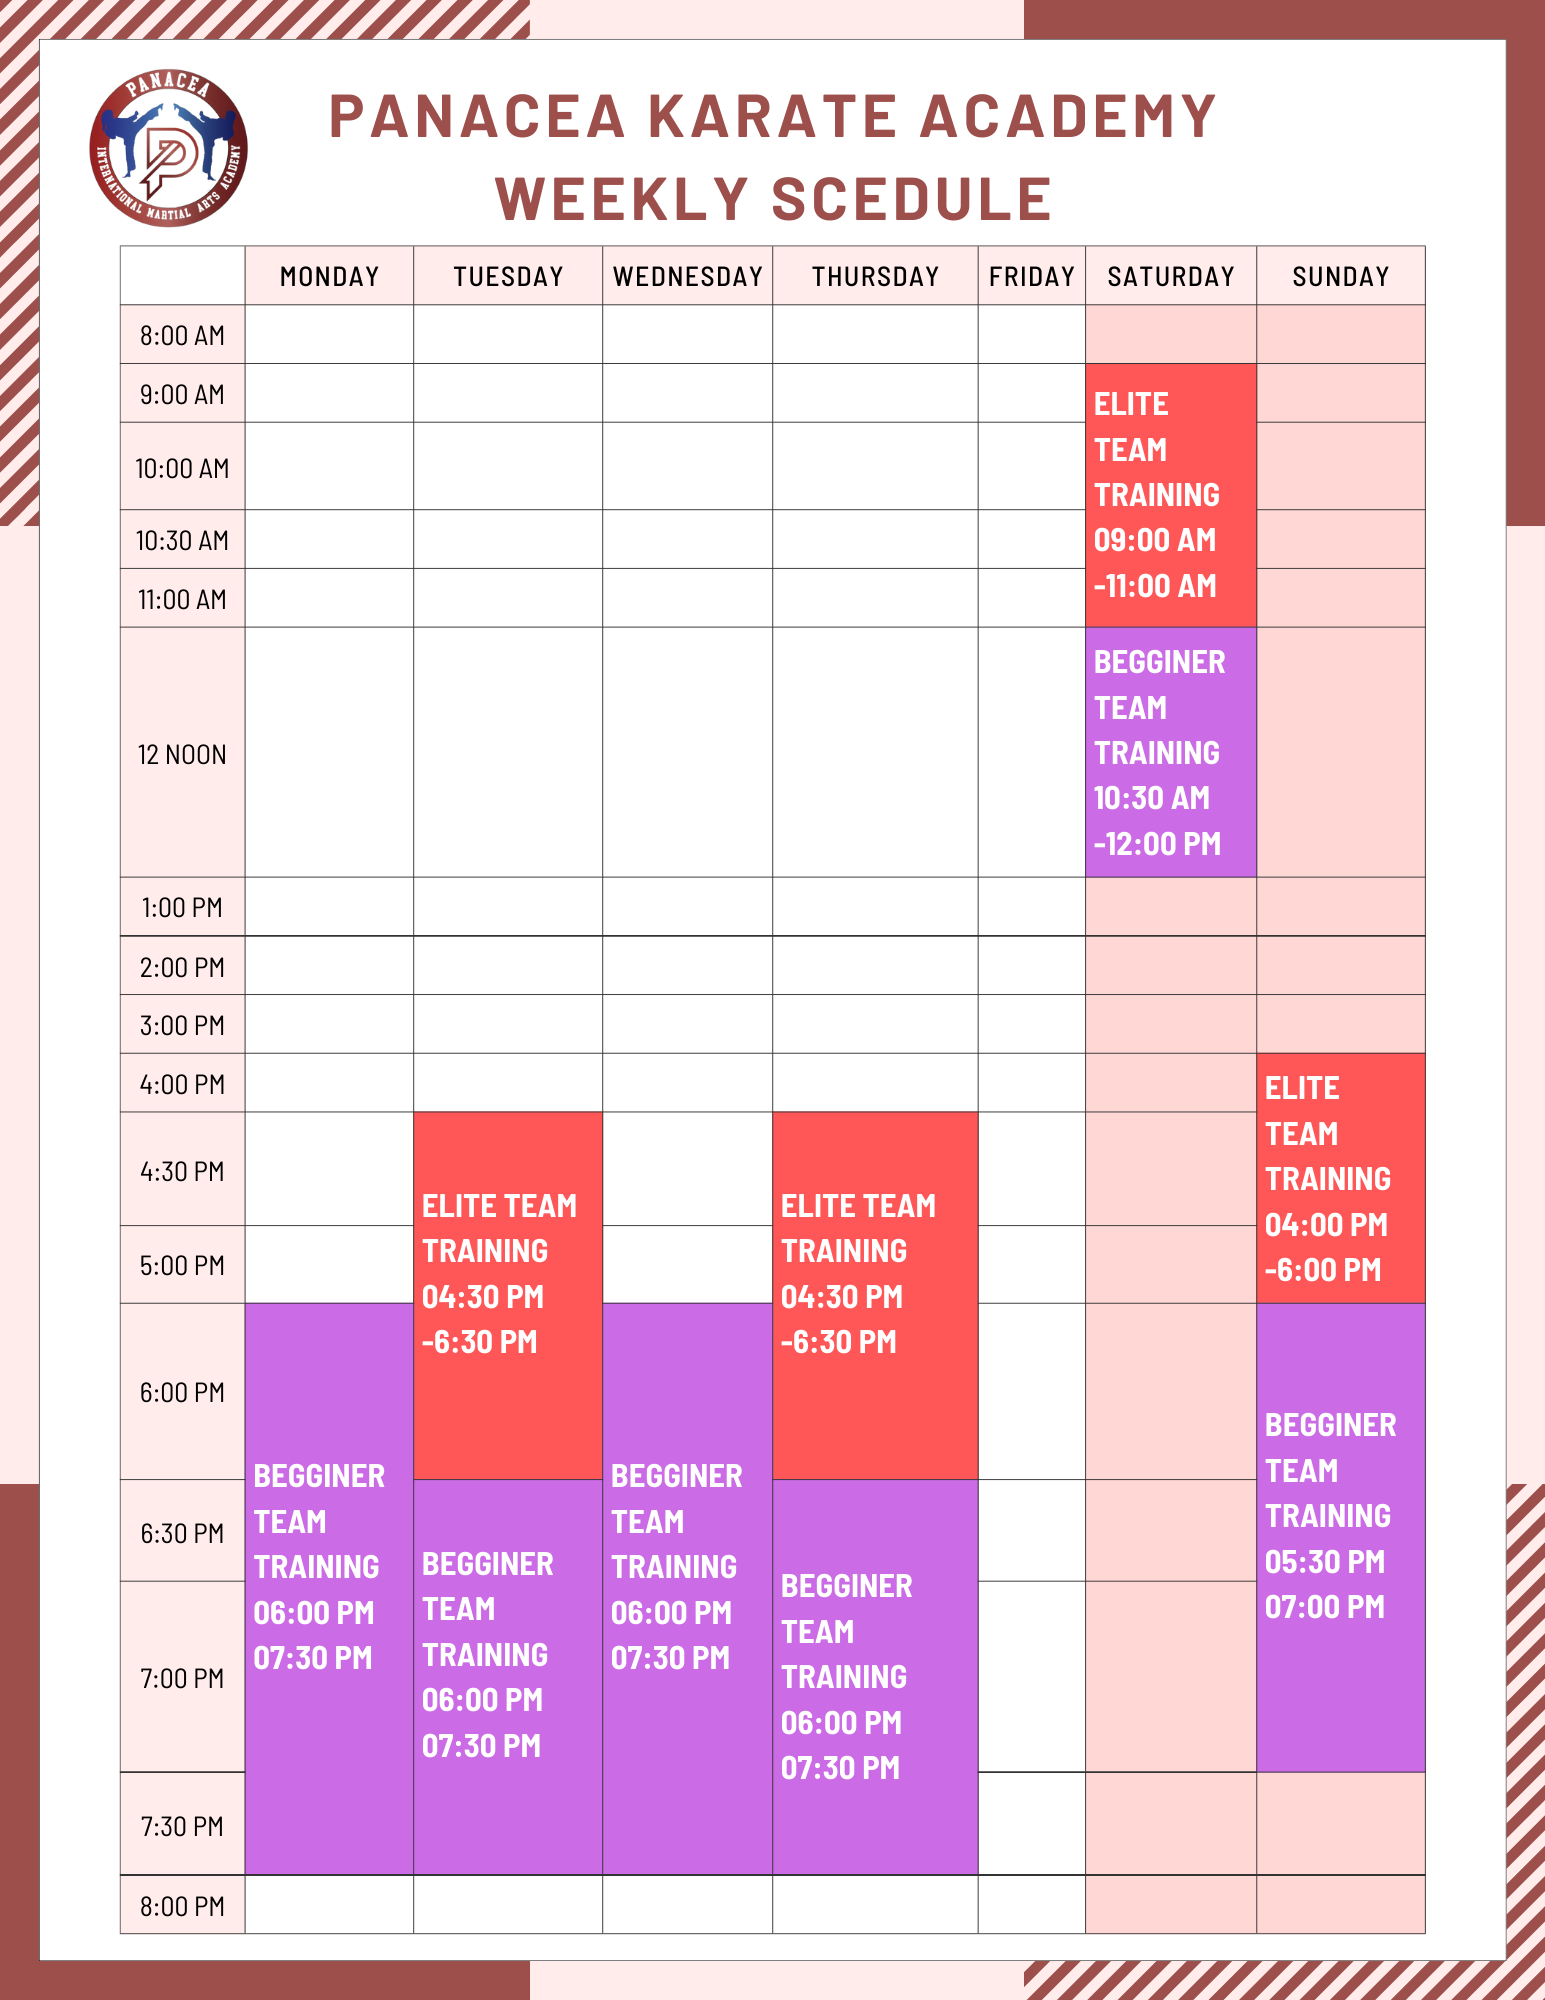
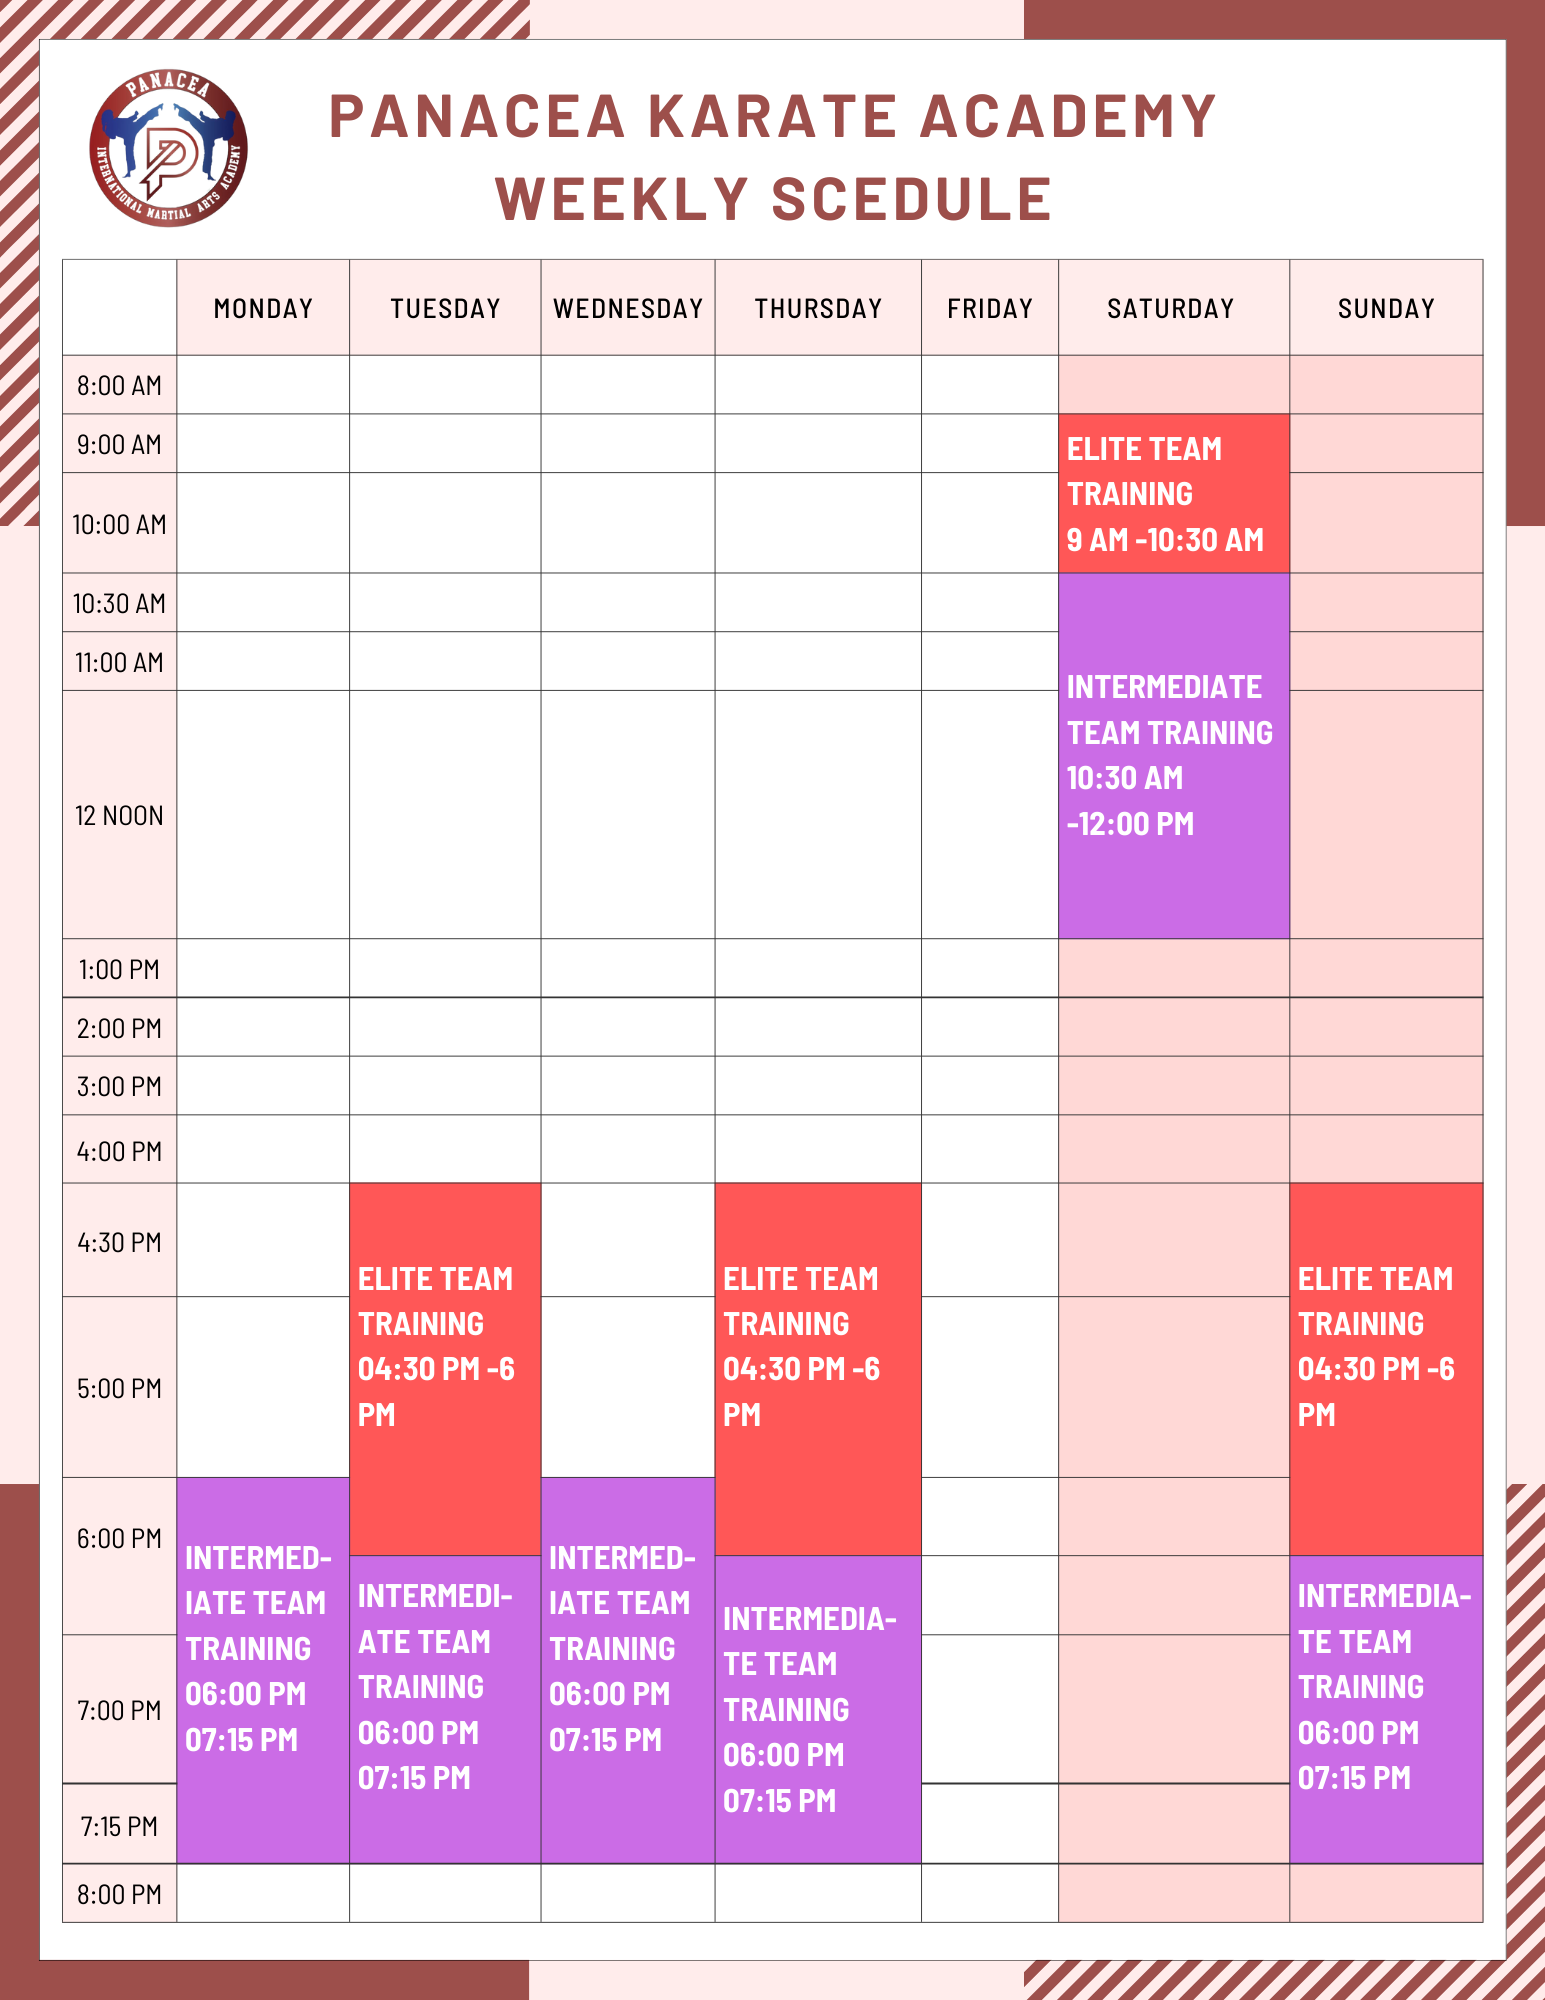
change schedule

diff --git a/frontend/src/components/shared/Footer.jsx b/frontend/src/components/shared/Footer.jsx
@@ -123,22 +123,22 @@ export default function Footer() {
             <MDBCol md="3" lg="2" xl="2" className="mx-auto mb-4 px-0">
               <h6 className="text-uppercase fw-bold mb-4">Working Hours</h6>
               <p>
-                  6pm to 7:30pm Monday
+                  6pm to 7:15pm Monday
               </p>
               <p>
-                  4:30pm to 7:30pm Tuesday
+                  4:30pm to 7:15pm Tuesday
               </p>
               <p>
-                  6pm to 7:30pm Wednesday
+                  6pm to 7:15pm Wednesday
               </p>
               <p>
-                  4:30pm to 7:30pm Thursday
+                  4:30pm to 7:15pm Thursday
               </p>
               <p>
                   9am to 12pm Saturday
               </p>
               <p>
-                  4pm to 7pm Sunday
+                  4:30pm to 7:15pm Sunday
               </p>
             </MDBCol>
 
